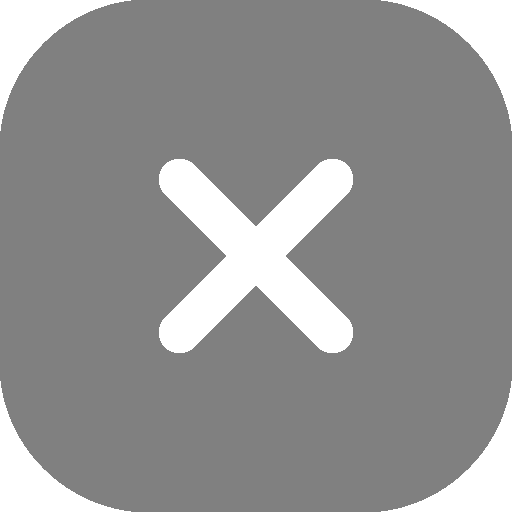
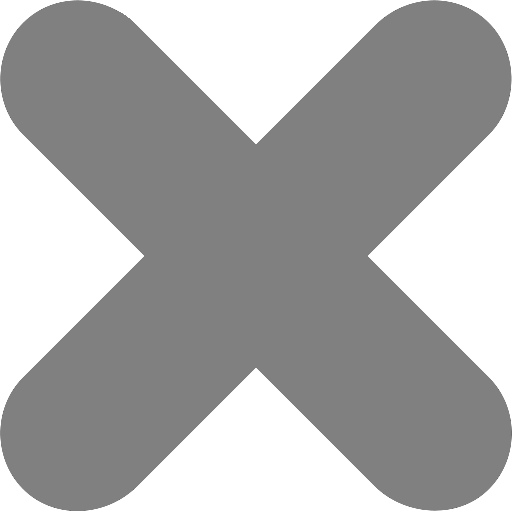
Resolving problem with warn in loggs about empty text, Changing design of buttons Deleting infomration button

diff --git a/PrefMovieApi/MainWindow.xaml b/PrefMovieApi/MainWindow.xaml
@@ -7,7 +7,7 @@
         mc:Ignorable="d" WindowStyle="None" AllowsTransparency="True" Background="Transparent"
         Title="MainWindow" WindowStartupLocation="CenterScreen" SizeToContent="WidthAndHeight" ResizeMode="NoResize"
         FontFamily="pack://application:,,,/Font/#Varela Round">
-    <Border CornerRadius="20" MouseDown="BorderClick">
+    <Border CornerRadius="20">
         <Grid>
             <Grid.RowDefinitions>
                 <RowDefinition Height="75"/>
@@ -16,21 +16,18 @@
             <Grid.ColumnDefinitions>
                 <ColumnDefinition Width="1500"/>
             </Grid.ColumnDefinitions>
-            <Border Grid.RowSpan="2" Background="White" CornerRadius="10,0,0,0" Panel.ZIndex ="1" Margin="0,60,0,40"/>
-            <Border Grid.RowSpan="2" Background="White" CornerRadius="10,10,0,0" Panel.ZIndex ="0" Margin="0,0,0,40" Cursor="">
-                <Grid>
-                    <Button Style="{StaticResource ButtonImage}" Margin="0,10,10,0" Click="ExitWindow">
+            <Border Grid.RowSpan="2" Background="White" CornerRadius="10,0,0,0" Panel.ZIndex ="1" Margin="0,60,0,40" MouseDown="BorderClick"/>
+            <Border Grid.RowSpan="2" Background="White" CornerRadius="10,10,0,0" Panel.ZIndex ="0" Margin="0,0,0,40" MouseDown="BorderClick">
+                <Grid Cursor="Hand">
+                    <Button Style="{StaticResource ButtonImage}" Margin="0,10,10,0" Click="ExitWindow" Height="30" Width="30">
                         <Image Source="Images/closeIcon.png" RenderOptions.BitmapScalingMode="HighQuality" Cursor="Hand"/>
                     </Button>
-                    <Button Style="{StaticResource ButtonImage}"  Margin="0,10,70,0" Click="InfoClick">
-                        <Image Source="Images/infoIcon.png" RenderOptions.BitmapScalingMode="HighQuality" Cursor="Hand"/>
-                    </Button>
-                    <Button Style="{StaticResource ButtonImage}" Margin="0,10,130,0" Click="RefreshWindow">
-                        <Image Source="Images/refreshIcon.png" RenderOptions.BitmapScalingMode="HighQuality" Cursor="Hand"/>
+                    <Button Style="{StaticResource ButtonImage}" Margin="0,10,60,0" Click="RefreshWindow" RenderTransformOrigin="0.5,0.5" Height="31" Width="31">
+                        <Image Source="Images/refreshIcon.png" RenderOptions.BitmapScalingMode="HighQuality" Cursor="Hand" Width="32" Height="32" IsHitTestVisible="False"/>
                     </Button>
                 </Grid>
             </Border>
-            <Border Grid.Row="0" Background="Gray" CornerRadius="10,0,100,0" Margin="0,0,300,0" Panel.ZIndex="0">
+            <Border Grid.Row="0" Background="Gray" CornerRadius="10,0,100,0" Margin="0,0,300,0" Panel.ZIndex="0" MouseDown="BorderClick">
                 <TextBlock Text="PrefMovie" HorizontalAlignment="Left" VerticalAlignment="Top" Foreground="White" FontSize="50" Margin="35,0,0,0"/>
             </Border>
             <Border Grid.Row="1" Background="#FF636262" CornerRadius="10,0,10,10" Panel.ZIndex ="1">

diff --git a/PrefMovieApi/GeneralInfo.xaml b/PrefMovieApi/GeneralInfo.xaml
@@ -8,7 +8,7 @@
              FontFamily="pack://application:,,,/Font/#Varela Round">
     <Border Grid.Row="1" Background="#FF636262" CornerRadius="10,0,10,10" Panel.ZIndex ="1">
         <Grid Width="1050">
-            <ScrollViewer x:Name="MainContentMoviesPref" VerticalScrollBarVisibility="Hidden" HorizontalScrollBarVisibility="Disabled" PanningMode="VerticalOnly">
+            <ScrollViewer x:Name="MainContentMoviesPref" VerticalScrollBarVisibility="Hidden" HorizontalScrollBarVisibility="Disabled">
                 <StackPanel Orientation="Vertical">
                     <Border CornerRadius="30,30,0,0" Background="#FF484848" Margin="0,15,0,0">
                         <Grid Height="60">

diff --git a/PrefMovieApi/MainWindow.xaml.cs b/PrefMovieApi/MainWindow.xaml.cs
@@ -22,8 +22,6 @@ namespace PrefMovieApi
     {
         public static List<(LogLevel, string)> loggerMessages = new List<(LogLevel, string)>();
         public static ILogger logger = new FileLogger();
-        public GeneralInfo GeneralInfo;
-        public NoConnection NoConnection = new NoConnection();
         private bool isConnection = true; 
         public static string path = "log.txt";
         public MainWindow()
@@ -57,18 +55,7 @@ namespace PrefMovieApi
         private void ExitWindow(object sender, EventArgs e)
         {
             logger.Log(LogLevel.Info, "Closing window");
-            this.Close();
-        }
-
-        /// <summary>
-        /// Showing information about window by button
-        /// </summary>
-        /// <param name="sender"></param>
-        /// <param name="e"></param>
-        private void InfoClick(object sender, EventArgs e)
-        {
-            logger.Log(LogLevel.Info, "Checking infomration about app");
-            // TODO: Infomracja odnosnie okna
+            Close();
         }
 
         /// <summary>
@@ -91,21 +78,15 @@ namespace PrefMovieApi
             if (ConnectionInternet.NetworkCheck())
             {
                 logger.Log(LogLevel.Info, "Opening GeneralInfo control");
-
-                if(GeneralInfo == null)
-                {
-                    logger.Log(LogLevel.Warn, "General info is creating");
-                    GeneralInfo = new GeneralInfo();
-                }
-
-                MainContent.Content = GeneralInfo;
                 SortingFeatures.IsEnabled = true;
 
+                logger.Log(LogLevel.Warn, "General info is creating");
+                MainContent.Content = new GeneralInfo(this);
             }
             else
             {
                 logger.Log(LogLevel.Info, "Opening NoConnection control");
-                MainContent.Content = NoConnection;
+                MainContent.Content = new NoConnection();
                 SortingFeatures.IsEnabled = false;
             }
         }
@@ -117,8 +98,18 @@ namespace PrefMovieApi
         /// <param name="e"></param>
         private void BorderClick(object sender, MouseButtonEventArgs e)
         {
-            if (e.ChangedButton == MouseButton.Left)
-                this.DragMove();
+            try
+            {
+                if (e.ChangedButton == MouseButton.Left)
+                {
+                    logger.Log(LogLevel.Info, "Window is changing place on screen");
+                    this.DragMove();
+                }
+            }
+            catch (Exception ex)
+            {
+                logger.Log(LogLevel.Error, ex.ToString());
+            }
         }
     }
 }

diff --git a/PrefMovieApi/GeneralInfo.xaml.cs b/PrefMovieApi/GeneralInfo.xaml.cs
@@ -23,9 +23,6 @@ namespace PrefMovieApi
         // Client object
         public static TMDbClient client = null;
 
-        // Special control
-        public static bool isReload = true;
-
         // Delegate for loading content page
         public delegate void LoadContent(object sender, RoutedEventArgs e);
         public LoadContent loadContent;
@@ -33,7 +30,7 @@ namespace PrefMovieApi
         // Style for infomration about element
         public static Style styleThemeOfElement;
 
-        public GeneralInfo()
+        public GeneralInfo(Window mainWindow)
         {
             InitializeComponent();
 
@@ -53,7 +50,7 @@ namespace PrefMovieApi
 
                 // Checking that the API key is correct
                 var testRequest = client.GetMovieAsync(550).Result;
-                if(testRequest == null)
+                if (testRequest == null)
                 {
                     MainWindow.logger.Log(LogLevel.Error, "Test request is null");
                     throw new FormatException();
@@ -61,30 +58,19 @@ namespace PrefMovieApi
                 MainWindow.logger.Log(LogLevel.Info, "API is correct");
 
                 // Setting new style for infomration
-                styleThemeOfElement = FindResource("InfomrationAboutMovieOrShow") as Style;
                 MainWindow.logger.Log(LogLevel.Info, "Style for infomrations about elemnts was loaded");
+                styleThemeOfElement = FindResource("InfomrationAboutMovieOrShow") as Style;
 
                 // Setting movies
-                if (isReload)
-                {
-                    MainWindow.logger.Log(LogLevel.Info, $"{nameof(isReload)} = {isReload}");
-                    isReload = false;
-
-                    // Setting list of prefering movies in main screen 
-                    loadContent(null, null);
-                }
-                else
-                {
-                    MainWindow.logger.Log(LogLevel.Warn, $"{nameof(isReload)} = {isReload}");
-                }
+                loadContent(null, null);
             }
-            catch(Exception ex)
+            catch (Exception ex)
             {
-                MessageBox.Show("Crticial Error!","Error",MessageBoxButton.OK,MessageBoxImage.Error);
+                MessageBox.Show("Crticial Error!", "Error", MessageBoxButton.OK, MessageBoxImage.Error);
                 MainWindow.logger.Log(LogLevel.Error, ex.Message);
-                Window window = Window.GetWindow(this);
-                // TODO: Zamkniecie okna glownego
+                mainWindow.Close();
             }
+
         }
 
         /// <summary>

diff --git a/PrefMovieApi/SettingMovies.cs b/PrefMovieApi/SettingMovies.cs
@@ -208,7 +208,7 @@ namespace PrefMovieApi
                 };
 
                 // Setting information of movie
-                for (int i = 0; i < 4; i++)
+                for (int i = 0; i < 3; i++)
                 {
                     double fontSize = i == 0 ? 22 : 17;
                     TextBlock text = new TextBlock()
@@ -255,7 +255,7 @@ namespace PrefMovieApi
 
                     if(string.IsNullOrEmpty(text.Text))
                     {
-                        string nameOfTheme = i == 0 ? "Title" : i == 1 ? "Average Vote" : i == 2 ? "Date Relase" : "Genre";
+                        string nameOfTheme = i == 0 ? "Title" : i == 1 ? "Date Relase" : "Genre";
                         MainWindow.logger.Log(LogLevel.Warn, $"Text is empty for: {nameOfTheme} {nameof(randomMoviesOrTvShows)}");
                     }
 
